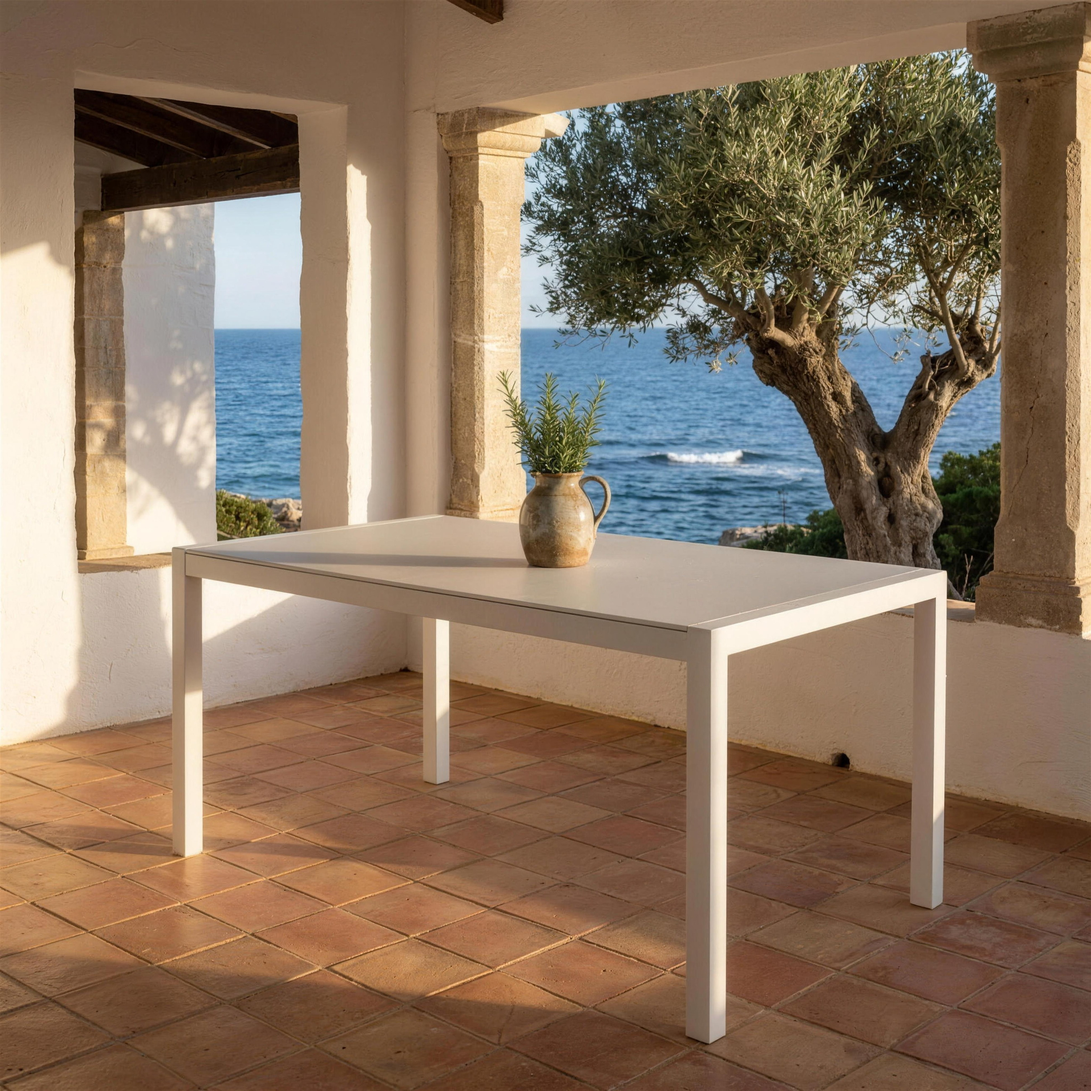
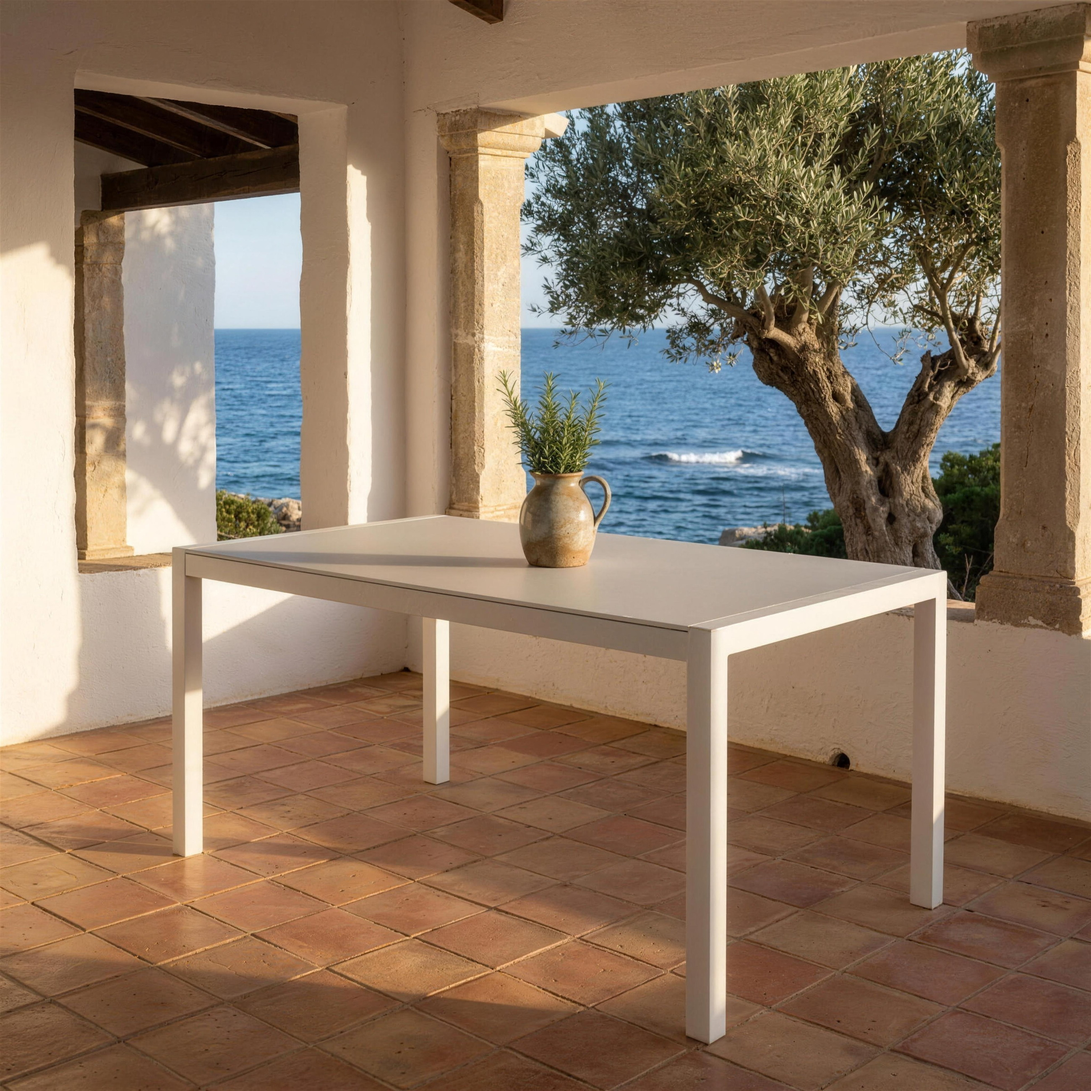
fix(fase2): mesa Corcega — el tablero HPL, ya no de cristal
Las tres imagenes publicadas se rehacen y sustituyen a las anteriores.

El packshot y el ambiente aislados sobre bone habian convertido el tablero
HPL opaco gris perla, encastrado en el marco, en un CRISTAL transparente
apoyado encima y sobresaliendo. No es un matiz de tono: cambia el material
y la construccion del mueble. Se caza comparando el canto a tamano real
contra la foto del proveedor (en la miniatura pasa desapercibido) y se
corrige nombrando material y construccion en el prompt.

La cota se LISTA, no se dibuja: el packshot quedo en un 3/4 marcado y ahi
una cota horizontal sobre el bbox no mide el ancho, mide la diagonal
proyectada (ademas el detector se desbordaba hasta el borde). Con dos
tamanos de variante, ficha_medidas_set.py da la salida honesta.

Publicada: 2600/2600/2400 px, 0 violaciones de reglas de marca.
Con esto queda cerrado el frente Hevea.

diff --git a/scripts/publicar_galeria_producto.py b/scripts/publicar_galeria_producto.py
@@ -1732,11 +1732,27 @@ GALERIAS_FASE3_H = {
     }),
 }
 
+# FASE 2 · mesa Corcega — la ultima Hevea que quedaba en baja resolucion (07-09-2026).
+# Dos trampas resueltas antes de generar:
+#  1) Las tres fotos del proveedor salen con SEIS SILLAS que no se venden -> se aislan.
+#  2) El CSV daba 135x90x**90** de alto (no creible en una mesa de comedor, y ese SKU arrastra
+#     el problema conocido de mapeo desplazado). El catalogo p.74 da CORCEGA HPL-90 a **76 H**,
+#     y toda la familia HPL (Naloa, Palma, Camelia) es 76. Manda el catalogo.
+#  3) El primer intento convirtio el tablero HPL opaco en un CRISTAL transparente apoyado encima
+#     del marco. Se corrigio nombrando el material y la construccion en el prompt.
+GALERIAS_FASE2 = {
+    "mesa_corcega": ("mesa-comedor-exterior-hpl-13590-cm", {
+        "01_packshot.jpg": "Mesa de comedor de exterior con estructura de aluminio blanco y tablero de HPL gris perla encastrado en el marco, sobre fondo neutro. Se vende solo la mesa, sin sillas",
+        "02_ambiente_menorca.jpg": "Mesa de comedor de exterior de aluminio blanco sola en el porche encalado de una casa menorquina, con columnas de mares, un olivo y el mar al fondo. Se vende solo la mesa, sin sillas",
+        "03_medidas.jpg": "Medidas de la mesa de comedor de exterior: 135 x 90 x 76 cm y 160 x 90 x 76 cm de alto. Solo la mesa, las sillas no estan incluidas",
+    }),
+}
+
 if __name__ == "__main__":
     backup = []
     # ACTIVA: la tanda del Brandon 3 pl. (las de abajo son historicas y NO se publican)
     if VERIFICAR: _verificar_todo()
-    ACTIVA = GALERIAS_FASE3_H
+    ACTIVA = GALERIAS_FASE2
     registro = []
     for slug, (handle, alts) in ACTIVA.items():
         if SOLO and slug != SOLO:
